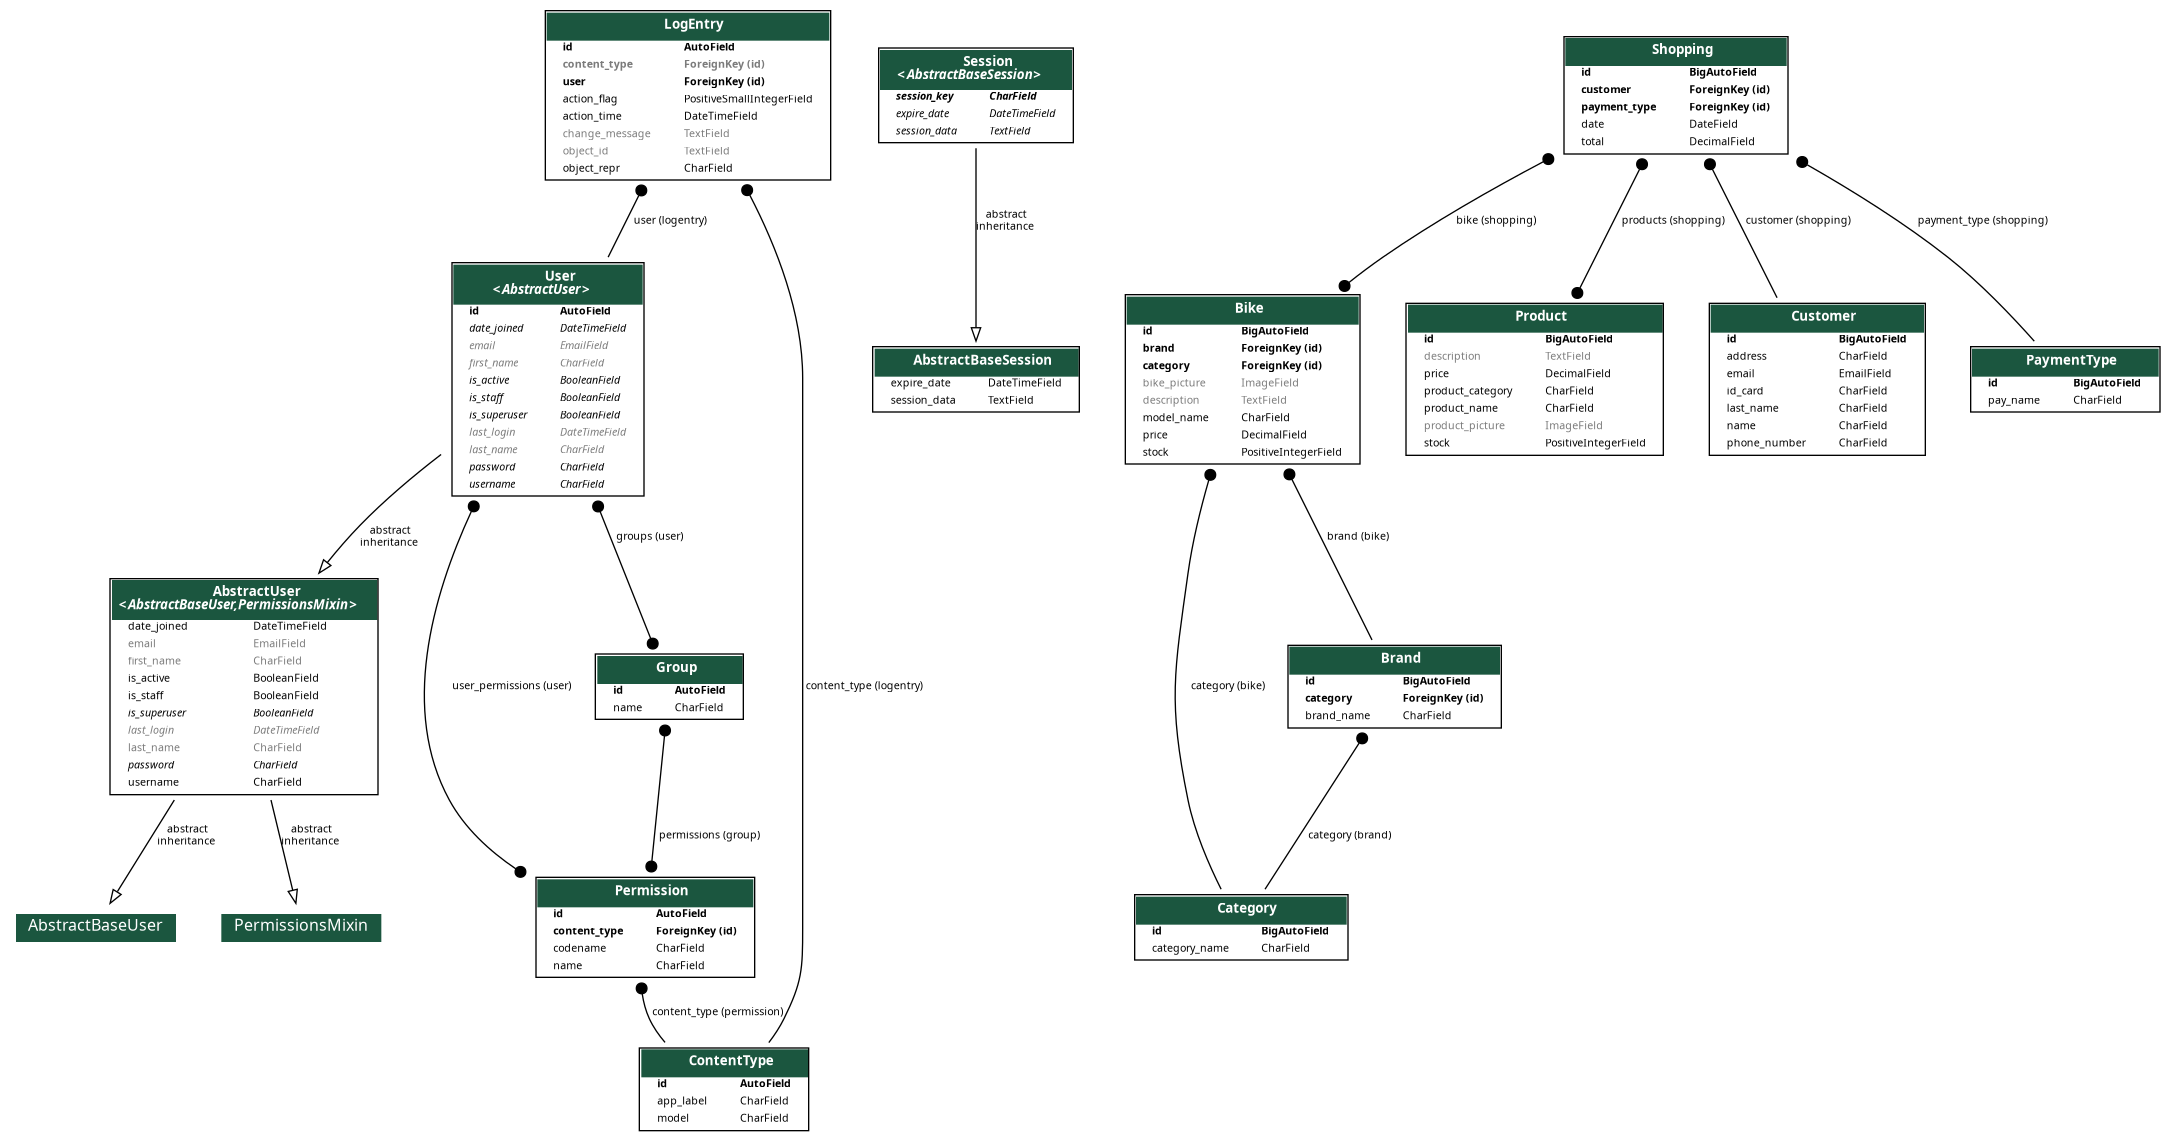
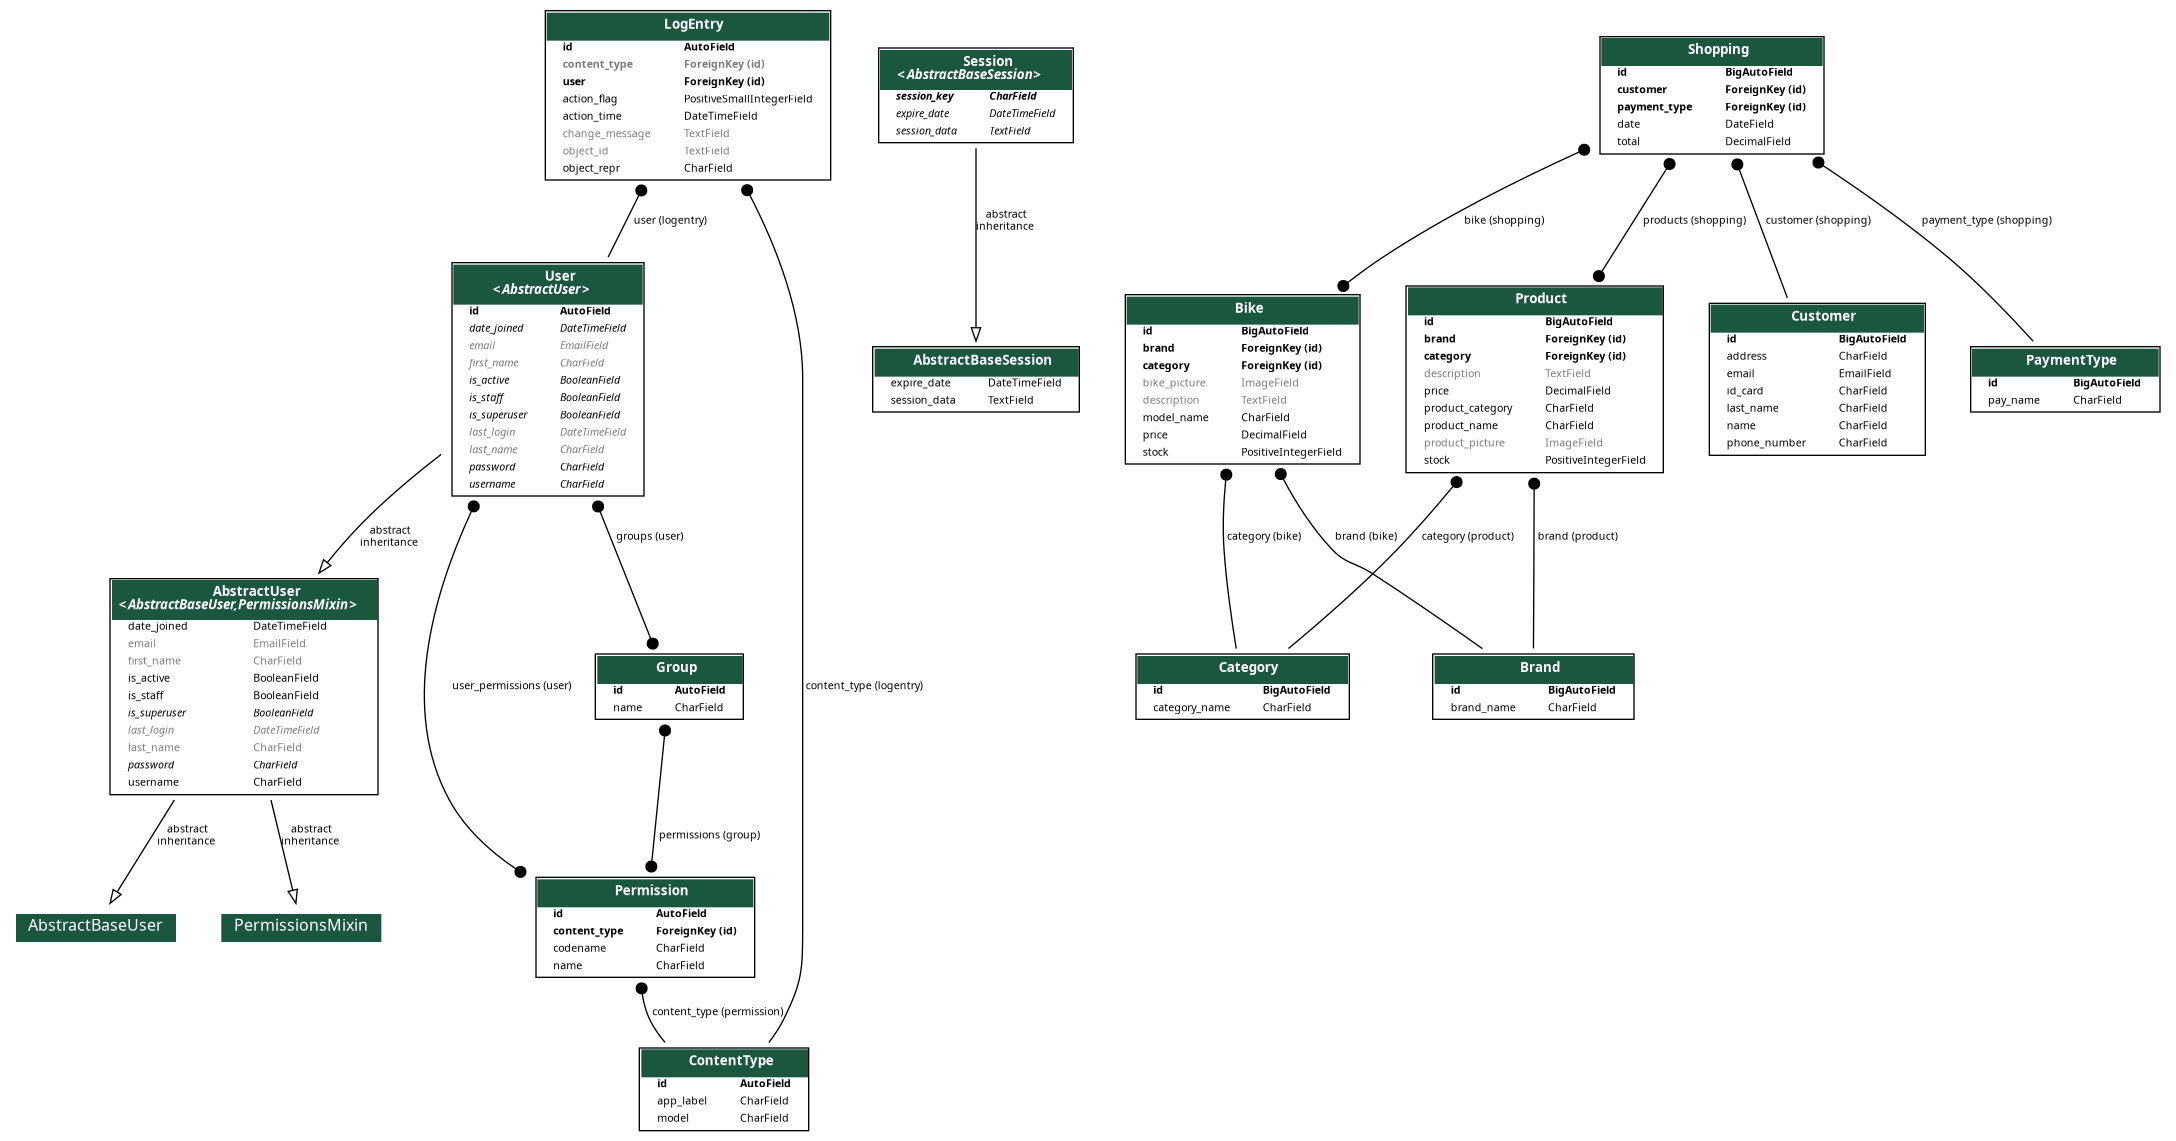
Modelos y Formularios

diff --git a/city_cyclist/migrations/0002_initial.py b/city_cyclist/migrations/0002_initial.py
@@ -1,4 +1,4 @@
-# Generated by Django 4.2 on 2024-08-10 05:39
+# Generated by Django 4.2 on 2024-08-10 15:38
 
 from django.db import migrations, models
 import django.db.models.deletion
@@ -22,6 +22,13 @@ class Migration(migrations.Migration):
                 ('stock', models.PositiveIntegerField()),
                 ('description', models.TextField(blank=True, null=True)),
                 ('bike_picture', models.ImageField(blank=True, null=True, upload_to='bike_images')),
+            ],
+        ),
+        migrations.CreateModel(
+            name='Brand',
+            fields=[
+                ('id', models.BigAutoField(auto_created=True, primary_key=True, serialize=False, verbose_name='ID')),
+                ('brand_name', models.CharField(max_length=30, unique=True)),
             ],
         ),
         migrations.CreateModel(
@@ -55,11 +62,13 @@ class Migration(migrations.Migration):
             fields=[
                 ('id', models.BigAutoField(auto_created=True, primary_key=True, serialize=False, verbose_name='ID')),
                 ('product_name', models.CharField(max_length=30, unique=True)),
-                ('product_category', models.CharField(choices=[('Rueda', 'Rueda'), ('Luces', 'Luces'), ('Pedales', 'Pedales'), ('Aros', 'Aros'), ('Casco', 'Casco'), ('Frenos', 'Frenos')], max_length=30)),
+                ('product_category', models.CharField(choices=[('Rueda', 'Rueda'), ('Casco', 'Casco'), ('Pedales', 'Pedales'), ('Aros', 'Aros'), ('Frenos', 'Frenos'), ('Luces', 'Luces')], max_length=30)),
                 ('price', models.DecimalField(decimal_places=2, max_digits=10)),
-                ('description', models.TextField(blank=True, null=True)),
                 ('stock', models.PositiveIntegerField()),
+                ('description', models.TextField(blank=True, null=True)),
                 ('product_picture', models.ImageField(blank=True, null=True, upload_to='product_images')),
+                ('brand', models.ForeignKey(on_delete=django.db.models.deletion.CASCADE, to='city_cyclist.brand')),
+                ('category', models.ForeignKey(on_delete=django.db.models.deletion.CASCADE, to='city_cyclist.category')),
             ],
         ),
         migrations.CreateModel(
@@ -74,13 +83,10 @@ class Migration(migrations.Migration):
                 ('products', models.ManyToManyField(blank=True, to='city_cyclist.product')),
             ],
         ),
-        migrations.CreateModel(
-            name='Brand',
-            fields=[
-                ('id', models.BigAutoField(auto_created=True, primary_key=True, serialize=False, verbose_name='ID')),
-                ('brand_name', models.CharField(max_length=30, unique=True)),
-                ('category', models.ForeignKey(on_delete=django.db.models.deletion.CASCADE, to='city_cyclist.category')),
-            ],
+        migrations.AddField(
+            model_name='brand',
+            name='category',
+            field=models.ForeignKey(on_delete=django.db.models.deletion.CASCADE, to='city_cyclist.category'),
         ),
         migrations.AddField(
             model_name='bike',

diff --git a/city_cyclist/models.py b/city_cyclist/models.py
@@ -9,18 +9,17 @@ class Category(models.Model):
     
 class Brand(models.Model):
     brand_name = models.CharField(max_length=30, null=False, unique=True)
-    category = models.ForeignKey(Category, on_delete=models.CASCADE)
-
+    
     def __str__(self):
         return self.brand_name
 
 
 class Bike(models.Model):
     model_name = models.CharField(max_length=50)
-    brand = models.ForeignKey(Brand, on_delete=models.CASCADE) 
     price = models.DecimalField(max_digits=10, decimal_places=2) 
     stock = models.PositiveIntegerField() 
     description = models.TextField(blank=True, null=True)
+    brand = models.ForeignKey(Brand, on_delete=models.CASCADE) 
     category = models.ForeignKey(Category, on_delete=models.CASCADE)
     bike_picture = models.ImageField(upload_to='bike_images', blank=True, null=True)  
     
@@ -39,10 +38,12 @@ class Product(models.Model):
         ("Rueda", "Rueda")
     }
     product_category = models.CharField(max_length=30, choices=PRODUCT_CATEGORY, null=False)
-    price = models.DecimalField(max_digits=10, decimal_places=2)  
+    price = models.DecimalField(max_digits=10, decimal_places=2) 
+    stock = models.PositiveIntegerField() 
     description = models.TextField(blank=True, null=True)
-    stock = models.PositiveIntegerField()
-    product_picture = models.ImageField(upload_to='product_images', blank=True, null=True) 
+    brand = models.ForeignKey(Brand, on_delete=models.CASCADE) 
+    category = models.ForeignKey(Category, on_delete=models.CASCADE)
+    product_picture = models.ImageField(upload_to='product_images', blank=True, null=True)
 
     def __str__(self):
         return self.product_name
@@ -69,6 +70,8 @@ class PaymentType(models.Model):
 
     def __str__(self):
         return self.pay_name
+    
+
 
 class Shopping(models.Model):
     customer = models.ForeignKey(Customer, on_delete=models.CASCADE)
@@ -81,3 +84,4 @@ class Shopping(models.Model):
        
     def __str__(self):
         return f'Shopping {self.id} - Customer: {self.customer}'
+    

diff --git a/city_cyclist/admin.py b/city_cyclist/admin.py
@@ -1,6 +1,5 @@
 from django.contrib import admin
 from .models import Category, Bike, Product, Customer, PaymentType, Shopping, Brand
-# Register your models here.
 
 
 @admin.register(Category)
@@ -32,4 +31,3 @@ class ShoppingAdmin(admin.ModelAdmin):
 @admin.register(Brand)
 class BrandAdmin(admin.ModelAdmin):
     pass
-              

diff --git a/bicycle_shop/settings.py b/bicycle_shop/settings.py
@@ -78,7 +78,7 @@ WSGI_APPLICATION = 'bicycle_shop.wsgi.application'
 DATABASES = {
     'default': {
         'ENGINE': 'django.db.backends.postgresql',
-        'NAME': 'mami',
+        'NAME': 'Romi',
         'HOST': 'localhost',
         'PORT': '5432',
         'USER': 'stalin',

diff --git a/city_cyclist/migrations/0001_initial.py b/city_cyclist/migrations/0001_initial.py
@@ -1,4 +1,4 @@
-# Generated by Django 4.2 on 2024-08-10 05:39
+# Generated by Django 4.2 on 2024-08-10 15:38
 
 from django.db import migrations
 
